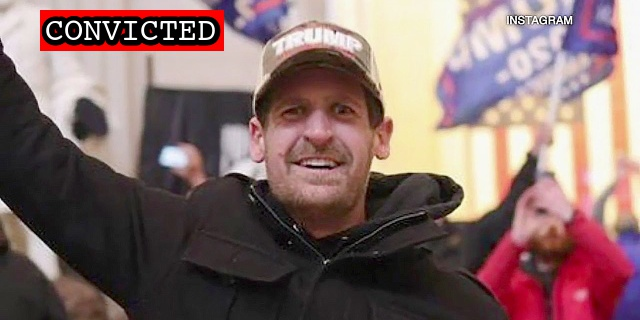
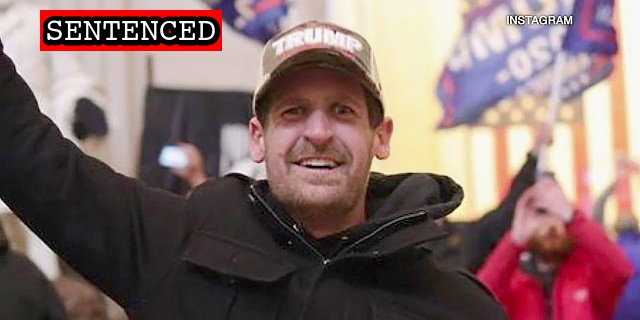
Jeffrey Smith

Changed region(s): [[0.1562, 0.0312, 0.2812, 0.1562], [0.0625, 0.0312, 0.125, 0.1562], [0.3438, 0.0312, 0.375, 0.1562]]

diff --git a/docs/_suspects/jeffrey-smith.md b/docs/_suspects/jeffrey-smith.md
@@ -4,12 +4,12 @@ lastName: Smith
 hashtag: JeffreyAlexanderSmith
 aka: Alex Smith
 residence: California
-status: Convicted
+status: Sentenced
 date: 2021-01-27
 charged: 2021-01-27
 indicted:
 convicted: 2021-10-28
-sentenced:
+sentenced: 2022-03-15
 dismissed:
 deceased:
 plea_hearing: 2021-10-28
@@ -34,12 +34,17 @@ published: true
 caseNumber: 1:21-cr-290
 videos:
 charges:
-- code: 18 USC § 5104(e)(2)(G)
-  title: Parading, demonstrating or picketing in a Capitol building
-  url: https://www.law.cornell.edu/uscode/text/40/5104
-  felony: false
+  - code: 18 USC § 5104(e)(2)(G)
+    title: Parading, demonstrating or picketing in a Capitol building
+    url: https://www.law.cornell.edu/uscode/text/40/5104
+    felony: false
 sentence:
+  - 90 days in prison
+  - 24 months probation
+  - 200 hours of community service
+  - $500 restitution
 ---
+
 - [News Report](https://www.cbs8.com/article/news/politics/coronado-arrest-capitol-riot/509-740c83a7-f93e-4283-87da-d5a54005906b)
 - [Complaint](https://www.justice.gov/opa/page/file/1361426/download)
 - [Statement of Facts](https://www.justice.gov/usao-dc/case-multi-defendant/file/1445281/download)
